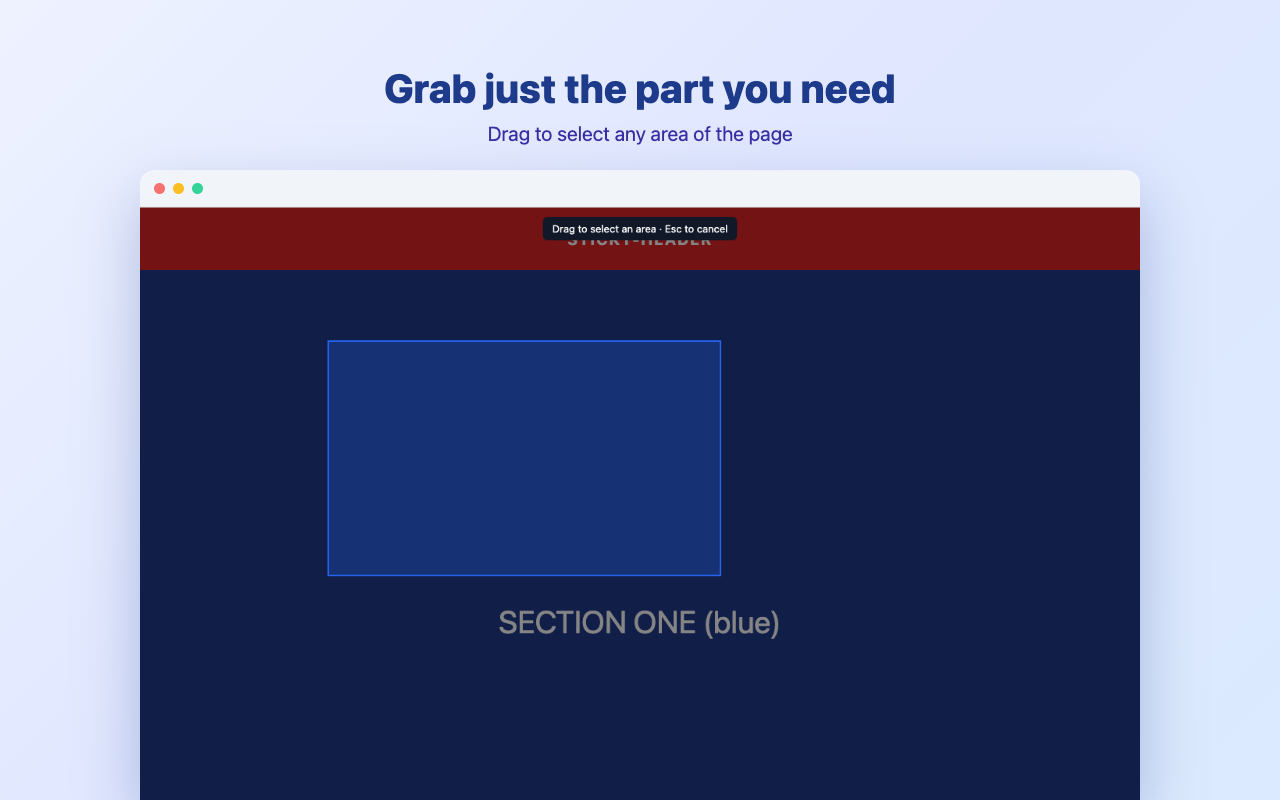
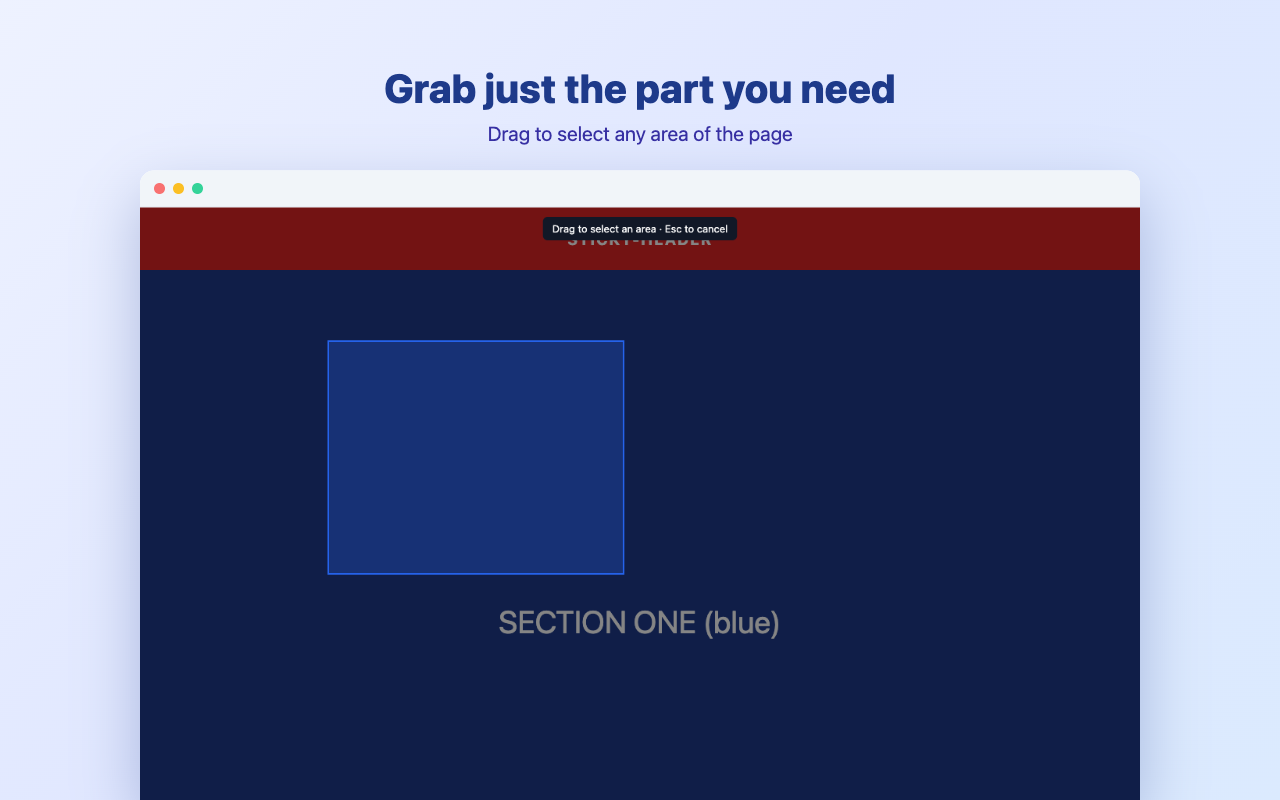
Store update v1.1.0: feature the annotation editor
- Bump manifest + package to 1.1.0; manifest description now mentions annotate.
- STORE_LISTING.md: "What's new in 1.1.0" notes, ANNOTATE & REDACT section in
  the detailed description, editor-first screenshot order, updated summary,
  single-purpose (now covers editing), and update-vs-new-item submission steps.
  No new permissions / data disclosures changed.
- gen-store-assets.mjs: add screenshot-5-editor.png — drives the real editor on
  a realistic billing mock (bold arrow on a metric + blur redacting card/email);
  stop wiping store-assets/ so hand-made shots (1.png/2.png) survive regen.
- Add store-assets/1.png, 2.png (hand-made result/region shots) + screenshot-5-editor.png.

Repackage with `npm run package:store` -> fullshot-store-v1.1.0.zip (gitignored).

Changed region(s): [[0.4688, 0.4062, 0.5625, 0.7188]]

diff --git a/STORE_LISTING.md b/STORE_LISTING.md
@@ -5,7 +5,13 @@ Everything below is ready to paste into the **Chrome Web Store Developer Dashboa
 ---
 
 ## 📦 Package to upload
-`fullshot-store-v1.0.0.zip` (built by `npm run package:store` — manifest.json is at the ZIP root, as the store requires).
+`fullshot-store-v1.1.0.zip` (built by `npm run package:store` — manifest.json is at the ZIP root, as the store requires).
+
+## 🆕 What's new in 1.1.0 (paste into the "What's new" / update notes field)
+```
+New: a built-in annotation editor. After you capture, click Edit to mark up the image before saving — arrows, rectangles, ellipses, lines, text labels, highlighter, blur/redact (mosaic sensitive info), numbered steps, and crop, with select/move, resize handles, and undo/redo. Everything still runs 100% locally — no new permissions. Annotations are flattened into your PNG/JPG/PDF or clipboard copy on export.
+```
+> This is a feature update — no new permissions were added, so the extension does **not** re-request access on update (a smoother review + no user re-prompt).
 
 ## 🔗 Privacy policy URL
 ```
@@ -13,15 +19,20 @@ https://shaunleeweirong.github.io/screenshot-downloader/
 ```
 
 ## 🖼️ Assets (in `store-assets/`)
-| Dashboard slot | File |
-|---|---|
-| Store icon (128×128) | `dist/icons/icon-128.png` (or `src/assets/icon-128.png`) |
-| Screenshot 1 (1280×800) | `store-assets/screenshot-1-popup.png` |
-| Screenshot 2 (1280×800) | `store-assets/screenshot-2-result.png` |
-| Screenshot 3 (1280×800) | `store-assets/screenshot-3-settings.png` |
-| Screenshot 4 (1280×800) | `store-assets/screenshot-4-region.png` |
-| Small promo tile (440×280) | `store-assets/promo-small-440x280.png` |
-| Marquee promo tile (1400×560) | `store-assets/promo-marquee-1400x560.png` |
+The store shows up to **5 screenshots** (1280×800). Recommended order below leads with the new editor.
+
+| Dashboard slot | File | Shows |
+|---|---|---|
+| Store icon (128×128) | `dist/icons/icon-128.png` (or `src/assets/icon-128.png`) | — |
+| Screenshot 1 | `store-assets/screenshot-1-popup.png` | The 3 capture modes |
+| Screenshot 2 | `store-assets/screenshot-5-editor.png` ⭐ **NEW** | Annotate + blur/redact editor |
+| Screenshot 3 | `store-assets/1.png` (or `screenshot-2-result.png`) | Export PNG/JPG/PDF/copy |
+| Screenshot 4 | `store-assets/2.png` (or `screenshot-4-region.png`) | Drag-to-select a region |
+| Screenshot 5 | `store-assets/screenshot-3-settings.png` | Private settings |
+| Small promo tile (440×280) | `store-assets/promo-small-440x280.png` | — |
+| Marquee promo tile (1400×560) | `store-assets/promo-marquee-1400x560.png` | — |
+
+> `1.png`/`2.png` are hand-made shots on realistic mock sites (nicer than the fixture-based `screenshot-2/4`); use whichever you prefer. `screenshot-5-editor.png` is generated by `npm run gen:store-assets` and demonstrates the editor on a mock billing page (arrow on a metric, blur redacting card/email).
 
 ---
 
@@ -32,12 +43,12 @@ https://shaunleeweirong.github.io/screenshot-downloader/
 FullShot - Full Page Screenshot & Scrolling Screen Capture Tool
 ```
 
-### Summary / short description (≤132 chars) — 129 chars
+### Summary / short description (≤132 chars)
 ```
-Capture full-page, scrolling, visible, or selected-region screenshots. 100% local & private. Export to PNG, JPG or PDF. No login.
+Capture full-page, scrolling, visible or region screenshots, then annotate & blur. 100% local. Export PNG, JPG or PDF. No login.
 ```
 
-> SEO note: keyword-optimized for Chrome Web Store search. Every core term is kept **under 5 uses listing-wide** (screenshot 4 · capture 4 · full page 4 · PDF 4 · scrolling 3) to stay within Chrome's keyword-spam policy.
+> SEO note: keyword-optimized for Chrome Web Store search (screenshot, capture, full page, scrolling, PDF, plus new terms annotate/blur/redact). Keep each core term to a handful of uses listing-wide to stay within Chrome's keyword-spam policy.
 
 ### Category
 **Productivity** (subcategory: Tools) — this is a focused utility, not a developer tool.
@@ -47,7 +58,7 @@ English (United States)
 
 ### Detailed description (≤16,000 chars)
 ```
-FullShot is a privacy-first screenshot tool that captures full-page (scroll & stitch), visible-area, and selected-region screenshots — right inside Chrome. Everything runs 100% locally on your device: activeTab-only, no account, no uploads. Save any result as PNG, JPG, or PDF.
+FullShot is a privacy-first screenshot tool that captures full-page (scroll & stitch), visible-area, and selected-region screenshots — then lets you annotate and redact them, right inside Chrome. Everything runs 100% locally on your device: activeTab-only, no account, no uploads. Save any result as PNG, JPG, or PDF.
 
 ━━━ WHAT YOU CAN DO ━━━
 • Full page — scroll & stitch an entire webpage into one tall image, even long pages below the fold.
@@ -56,6 +67,16 @@ FullShot is a privacy-first screenshot tool that captures full-page (scroll & st
 • Selected region — drag a box to grab just the part you need.
 • Export as PNG, JPG, or multi-page PDF, or copy straight to the clipboard.
 • Local history — re-download your recent images any time.
+
+━━━ ANNOTATE & REDACT (NEW) ━━━
+After you capture, click Edit to mark up the image before you save:
+• Arrows, rectangles, ellipses and lines to point things out.
+• Text labels and a highlighter to call out what matters.
+• Blur / redact — mosaic over emails, card numbers or any sensitive info so it's gone in the exported file (not just hidden).
+• Numbered step badges for clean how-to guides.
+• Crop to the part you want to keep.
+• Select any object to move, resize, restyle or delete it — with full undo/redo.
+Annotations are flattened into your PNG, JPG, PDF or clipboard copy on export. It all runs locally, and it added no new permissions.
 
 ━━━ WHY FULLSHOT ━━━
 Most tools stumble on modern pages. FullShot handles the hard parts:
@@ -70,7 +91,9 @@ Most tools stumble on modern pages. FullShot handles the hard parts:
 
 ━━━ HOW TO USE ━━━
 1. Click the FullShot icon on any normal web page (or press Alt+Shift+P).
-2. Pick a mode, then save as PNG, JPG or PDF — or copy to the clipboard.
+2. Pick a mode — full page, visible area, or a region you drag.
+3. Optional: click Edit to annotate, blur/redact, or crop.
+4. Save as PNG, JPG or PDF — or copy to the clipboard.
 Open Settings (the gear) to set your default format, image quality, and filename.
 
 ━━━ GOOD TO KNOW ━━━
@@ -86,7 +109,7 @@ FullShot is open source: https://github.com/shaunleeweirong/screenshot-downloade
 
 ### Single purpose (paste)
 ```
-FullShot has a single purpose: to capture screenshots of the web page the user is viewing (full page, visible area, or a selected region) and let the user save or copy the resulting image. All capture and processing happens locally in the browser.
+FullShot has a single purpose: to capture screenshots of the web page the user is viewing (full page, visible area, or a selected region), let the user optionally annotate or redact the captured image, and save or copy the result. All capture, editing, and processing happens locally in the browser.
 ```
 
 ### Permission justifications (paste one per field)
@@ -142,9 +165,11 @@ Select: **"No, I am not using remote code."** (All logic ships inside the packag
 1. Go to the **Chrome Web Store Developer Dashboard**: https://chrome.google.com/webstore/devconsole
 2. Sign in with the Google account you want to publish under, and **enable 2-Step Verification** on it (required to publish).
 3. Pay the **one-time US$5** developer registration fee (first time only).
-4. Click **"Add new item"** and upload **`fullshot-store-v1.0.0.zip`**.
-5. Fill the **Store listing** tab (title, summary, description, category, language) and upload the **icon, screenshots, and promo tiles** from the table above.
-6. Fill the **Privacy** tab: single purpose, the five permission justifications, remote code = No, the data-disclosure certifications, and the privacy policy URL.
+4. Upload **`fullshot-store-v1.1.0.zip`**:
+   - **First-time submission:** click **"Add new item"** and upload the ZIP.
+   - **Updating the existing published item:** open the item → **Package** → **Upload new package**, and select the ZIP. (The version in the manifest, `1.1.0`, must be higher than what's live — it is.)
+5. Fill/refresh the **Store listing** tab (title, summary, description, category, language), paste the **"What's new in 1.1.0"** notes, and upload the **icon, screenshots (lead with the editor shot), and promo tiles** from the table above.
+6. Fill the **Privacy** tab: single purpose, the five permission justifications, remote code = No, the data-disclosure certifications, and the privacy policy URL. **Nothing changed here for 1.1.0 — no new permissions, no new data collection.**
 7. Click **Submit for review**. Review usually takes a few days (sometimes longer for a brand-new developer account). You'll get an email when it's published.
 
 > Tip: choosing **Unlisted** visibility first lets you install and sanity-check the published build via its store link before flipping it to Public.